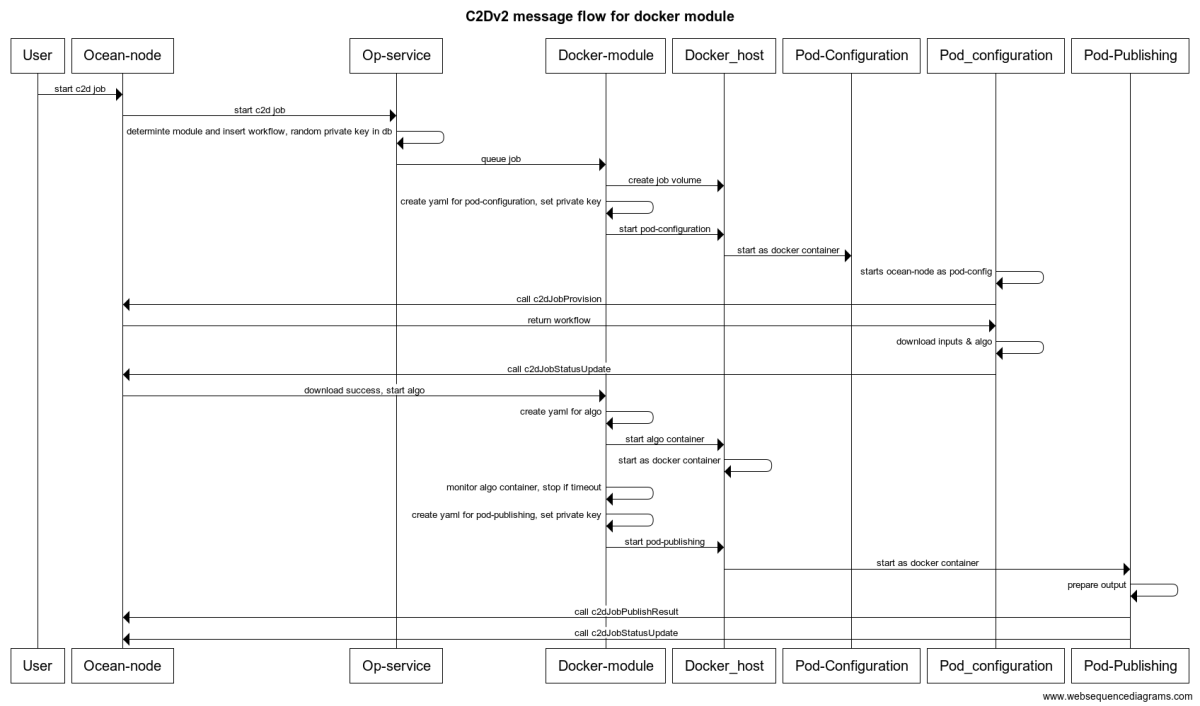
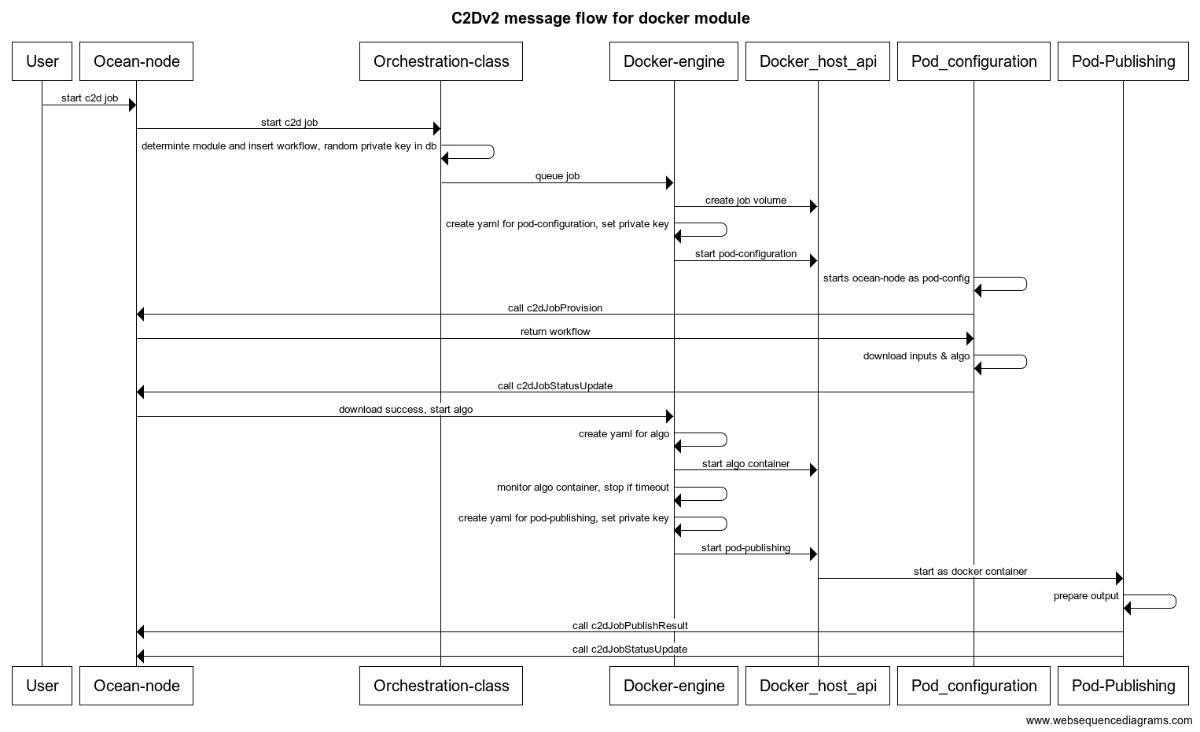
updates

Changed region(s): [[0.0, 0.0, 1.0, 0.9972], [0.6475, 0.2805, 0.6783, 0.3116]]

diff --git a/docs/C2DV2.md b/docs/C2DV2.md
@@ -114,29 +114,28 @@ An engine is responsible for:
 ```
 title C2Dv2 message flow for docker module
 User -> Ocean-node: start c2d job
-Ocean-node -> Op-service: start c2d job
-Op-service -> Op-service: determine module and insert workflow, random private key in db
-Op-service -> Docker-module: queue job
-Docker-module -> Docker_host:  create job volume
-Docker-module -> Docker-module: create yaml for pod-configuration, set private key
-Docker-module -> Docker_host: start pod-configuration
-Docker_host -> Pod-Configuration: start as docker container
+Ocean-node -> Orchestration-class: start c2d job
+Orchestration-class -> Orchestration-class: determinte module and insert workflow, random private key in db
+Orchestration-class -> Docker-engine: queue job
+Docker-engine -> Docker_host_api:  create job volume
+Docker-engine -> Docker-engine: create yaml for pod-configuration, set private key
+Docker-engine -> Docker_host_api: start pod-configuration
 Pod_configuration -> Pod_configuration: starts ocean-node as pod-config
 Pod_configuration -> Ocean-node: call c2dJobProvision
 Ocean-node -> Pod_configuration: return workflow
 Pod_configuration -> Pod_configuration : download inputs & algo
 Pod_configuration -> Ocean-node: call c2dJobStatusUpdate
-Ocean-node -> Docker-module: download success, start algo
-Docker-module -> Docker-module: create yaml for algo
-Docker-module -> Docker_host: start algo container
-Docker_host -> Docker_host: start as docker container
-Docker-module -> Docker-module: monitor algo container, stop if timeout
-Docker-module -> Docker-module: create yaml for pod-publishing, set private key
-Docker-module -> Docker_host: start pod-publishing
-Docker_host -> Pod-Publishing: start as docker container
+Ocean-node -> Docker-engine: download success, start algo
+Docker-engine -> Docker-engine: create yaml for algo
+Docker-engine -> Docker_host_api: start algo container
+Docker-engine -> Docker-engine: monitor algo container, stop if timeout
+Docker-engine -> Docker-engine: create yaml for pod-publishing, set private key
+Docker-engine -> Docker_host_api: start pod-publishing
+Docker_host_api -> Pod-Publishing: start as docker container
 Pod-Publishing -> Pod-Publishing : prepare output
 Pod-Publishing -> Ocean-node: call c2dJobPublishResult
 Pod-Publishing -> Ocean-node: call c2dJobStatusUpdate
+
 
 ```
 
